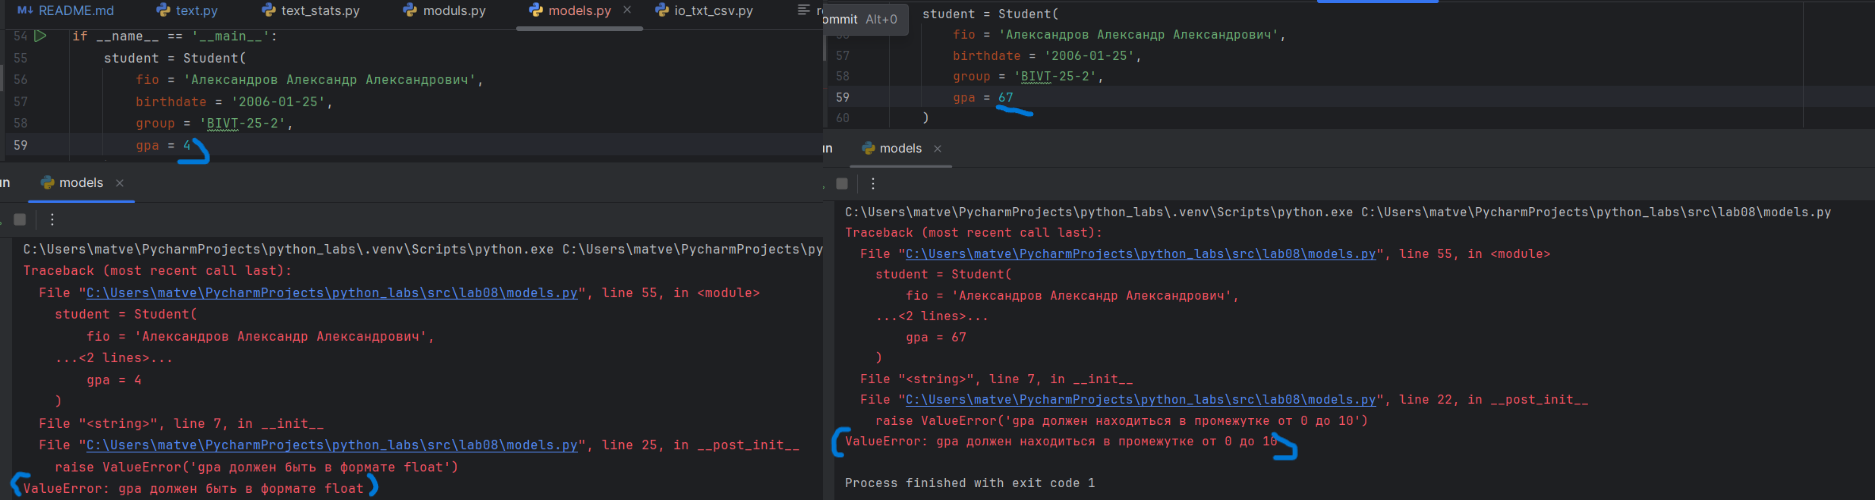
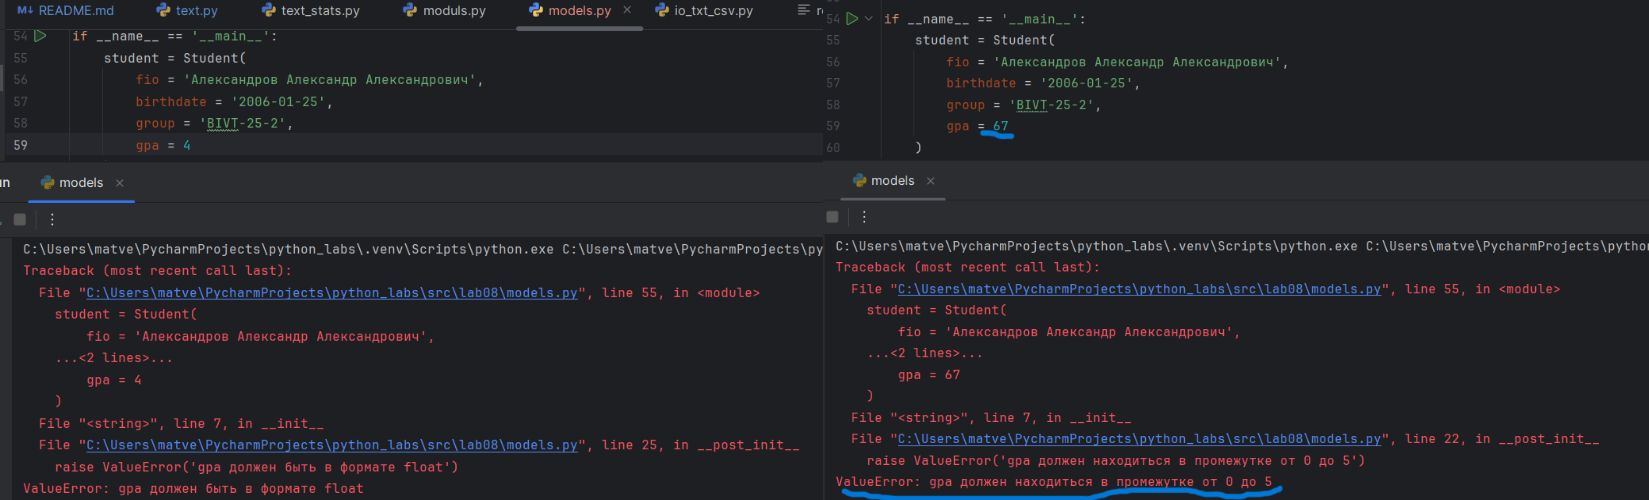
add ex b lab08

diff --git a/src/lab08/models.py b/src/lab08/models.py
@@ -18,8 +18,8 @@ class Student:
         if date.today().year < int(self.birthdate.split('-')[0]):
             raise ValueError('Год рождения не может быть больше чем текущий год')
 
-        if not (0 <= self.gpa <= 10):
-            raise ValueError('gpa должен находиться в промежутке от 0 до 10')
+        if not (0.0 <= self.gpa <= 5.0):
+            raise ValueError('gpa должен находиться в промежутке от 0 до 5')
 
         if isinstance(self.gpa, int):
             raise ValueError('gpa должен быть в формате float')
@@ -51,17 +51,17 @@ class Student:
         return f'ФИО студента: {self.fio}\n Дата рождения: {self.birthdate}\n Возраст: {self.age()}\n Группа: {self.gpa}\n GPA: {self.gpa}'
 
 
-if __name__ == '__main__':
-    student = Student(
-        fio = 'Александров Александр Александрович',
-        birthdate = '2006-01-25',
-        group = 'BIVT-25-2',
-        gpa = 67
-    )
-    print(student.to_dict()) # вывод в виде словаря
-    print()
-    print(student.from_dict(student.to_dict())) # вывод в красивом виде из словаря
-    print()
-    print(student.age()) # вывод полных лет
-    print()
-    print(student) # вывод в красивом виде
+# if __name__ == '__main__':
+#     student = Student(
+#         fio = 'Александров Александр Александрович',
+#         birthdate = '2006-01-25',
+#         group = 'BIVT-25-2',
+#         gpa = 4.7
+#     )
+#     print(student.to_dict()) # вывод в виде словаря
+#     print()
+#     print(student.from_dict(student.to_dict())) # вывод в красивом виде из словаря
+#     print()
+#     print(student.age()) # вывод полных лет
+#     print()
+#     print(student) # вывод в красивом виде

diff --git a/src/lab08/serialize.py b/src/lab08/serialize.py
@@ -1,0 +1,26 @@
+import json
+from pathlib import Path
+from models import Student
+
+
+students_data = [
+    Student('Ильин Илья Ильич', '2005-01-02', 'BIVT-24-3', 3.6),
+    Student('Федин Фёдор Фёдорович', '2006-08-23', 'BIVT-21-16', 4.5)
+]
+
+def students_to_json(students, path):
+    p = Path(path)
+    data = [s.to_dict() for s in students]
+    with open(str(p), 'w', encoding='utf-8') as file:
+        json.dump(data, file, ensure_ascii=False, indent=2)
+
+def students_from_json(path):
+    p = Path(path)
+    with open(str(p), 'r') as file:
+        data = json.load(file)
+    print([Student.from_dict(item) for item in data])
+
+
+if __name__ == '__main__':
+    students_to_json(students_data, 'C:/Users/matve/PycharmProjects/python_labs/data/lab08/students_output.json')
+    students_from_json('C:/Users/matve/PycharmProjects/python_labs/data/lab08/students_input.json')

diff --git a/README.md b/README.md
@@ -808,10 +808,10 @@ class Student:
 
         if date.today().year < int(self.birthdate.split('-')[0]):
             raise ValueError('Год рождения не может быть больше чем текущий год')
-        
-        if not (0 <= self.gpa <= 10):
-            raise ValueError('gpa должен находиться в промежутке от 0 до 10')
-        
+
+        if not (0.0 <= self.gpa <= 5.0):
+            raise ValueError('gpa должен находиться в промежутке от 0 до 5')
+
         if isinstance(self.gpa, int):
             raise ValueError('gpa должен быть в формате float')
 
@@ -863,3 +863,41 @@ if __name__ == '__main__':
 ![Картинка 8.2](./images/lab08/models2.png)
 ![Картинка 8.3](./images/lab08/models3.png)
 ![Картинка 8.4](./images/lab08/models4.png)
+
+
+### Задание 2 B. Реализовать модуль serialize.py
+```python
+import json
+from pathlib import Path
+from models import Student
+
+
+students_data = [
+    Student('Ильин Илья Ильич', '2005-01-02', 'BIVT-24-3', 3.6),
+    Student('Федин Фёдор Фёдорович', '2006-08-23', 'BIVT-21-16', 4.5)
+]
+
+def students_to_json(students, path):
+    p = Path(path)
+    data = [s.to_dict() for s in students]
+    with open(str(p), 'w', encoding='utf-8') as file:
+        json.dump(data, file, ensure_ascii=False, indent=2)
+
+def students_from_json(path):
+    p = Path(path)
+    with open(str(p), 'r') as file:
+        data = json.load(file)
+    print([Student.from_dict(item) for item in data])
+
+
+if __name__ == '__main__':
+    students_to_json(students_data, 'C:/Users/matve/PycharmProjects/python_labs/data/lab08/students_output.json')
+    students_from_json('C:/Users/matve/PycharmProjects/python_labs/data/lab08/students_input.json')
+```
+#### students_from_json
+![Картинка 8.5](./images/lab08/serialize1.png)
+![Картинка 8.6](./images/lab08/serialize2.png)
+#### students_to_json
+![Картинка 8.7](./images/lab08/serialize3.png)
+
+
